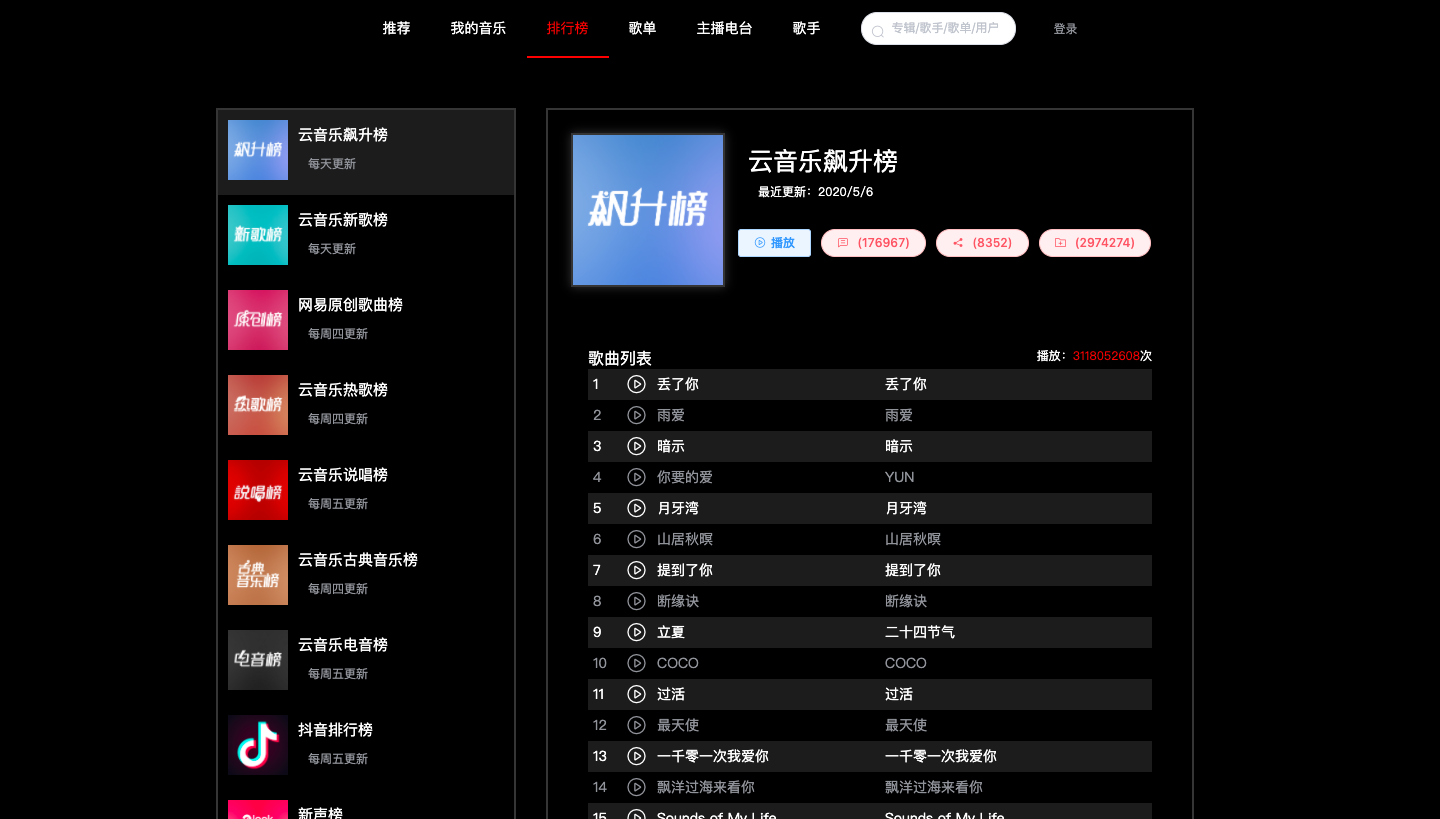
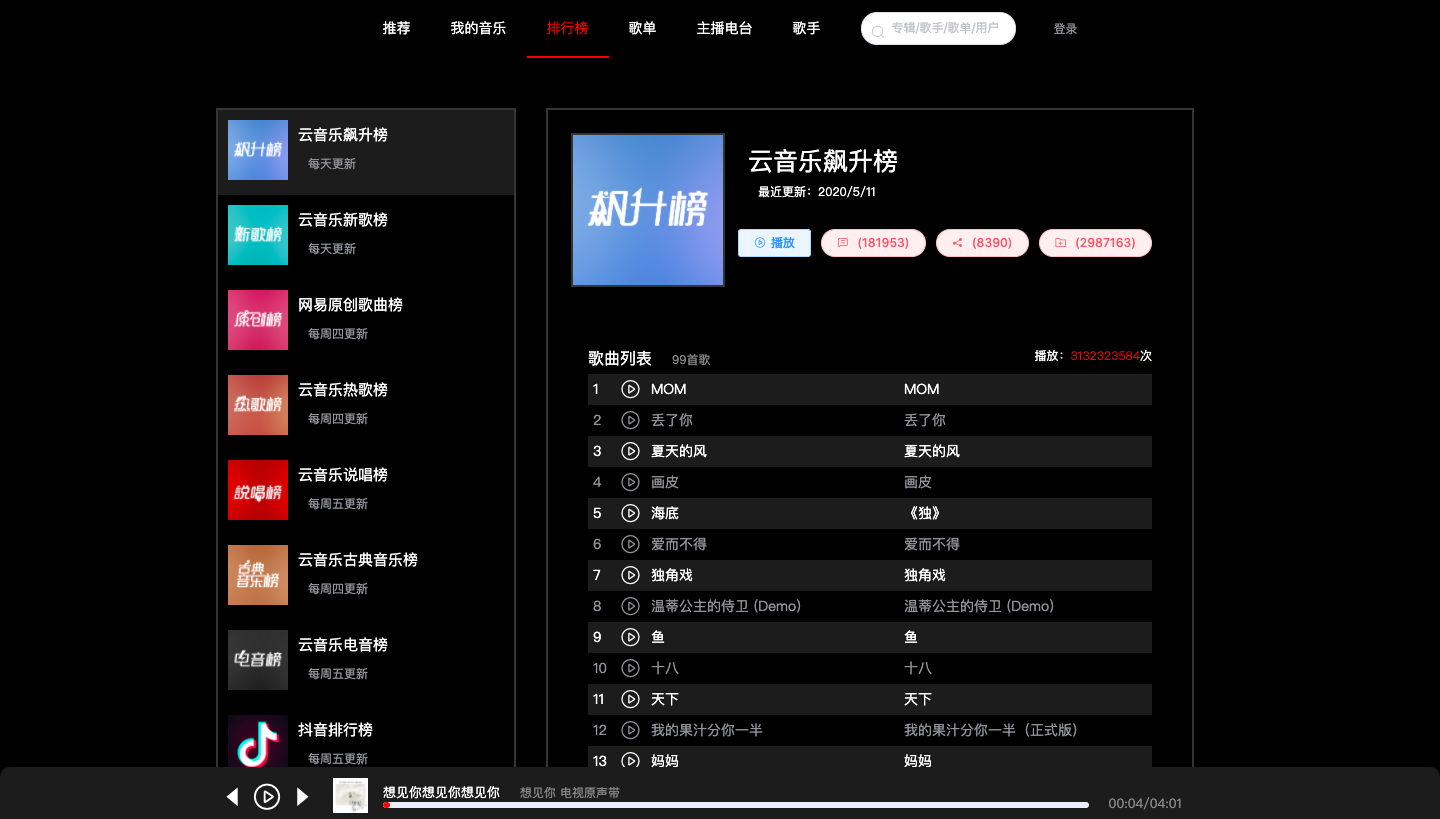
5.11

Changed region(s): [[0.0, 0.4274, 1.0, 1.0], [0.75, 0.2747, 0.8125, 0.3053], [0.5938, 0.2747, 0.625, 0.3053]]

diff --git a/src/views/ranking/ranking.vue b/src/views/ranking/ranking.vue
@@ -64,7 +64,7 @@ export default {
     songTable
   },
   created () {
-    this.$http.all([this.getRanking(), this.getMyselfRanking(3)])
+    this.$http.all([this.getRanking(), this.getFirstRanking(3)])
       .then(this.$http.spread(({ data: ranking }, { data: myselfRanking }) => {
         if (ranking.code !== 200 || myselfRanking.code !== 200) {
           return this.$message.error('获取数据失败')
@@ -105,9 +105,19 @@ export default {
       return this.$http.get('/toplist/detail')
     },
     // 根据id获取排行榜详细数据
-    getMyselfRanking (idx) {
+    getFirstRanking (idx) {
       this.active = idx
       return this.$http.get('/top/list', { params: { idx: idx } })
+    },
+    getMyselfRanking (idx) {
+      this.active = idx
+      return this.$http.get('/top/list', { params: { idx: idx } }).then(({ data }) => {
+        if (data.code !== 200) {
+          return this.$message.error('获取数据失败')
+        }
+        this.activeRanking = data.playlist
+        this.ranking = data.playlist.tracks
+      })
     }
   },
   computed: {

diff --git a/README.md b/README.md
@@ -1,9 +1,12 @@
-# xhymusic
+# xhymusic 模仿网易云音乐pc端
 ## vue+elementUI+网易云音乐 API
 ![recommend](https://github.com/xhysah/xhymusic/blob/master/src/assets/img/recommend.png)
 ![ranking](https://github.com/xhysah/xhymusic/blob/master/src/assets/img/ranking.png)
 ![singer](https://github.com/xhysah/xhymusic/blob/master/src/assets/img/singer.png)
-![song](https://github.com/xhysah/xhymusic/blob/master/src/assets/img/song.png)
-
+![singerDetail](https://github.com/xhysah/xhymusic/blob/master/src/assets/img/singerDetail.png)
+![songMenu](https://github.com/xhysah/xhymusic/blob/master/src/assets/img/songMenu.png)
+![songMenuDetail](https://github.com/xhysah/xhymusic/blob/master/src/assets/img/songMenuDetail.png)
+![search](https://github.com/xhysah/xhymusic/blob/master/src/assets/img/search.png)
+<img scr="https://github.com/xhysah/xhymusic/blob/master/src/assets/img/search.png" width="400px" height="350px>
 ### Customize configuration
 See [Configuration Reference](https://cli.vuejs.org/config/).
